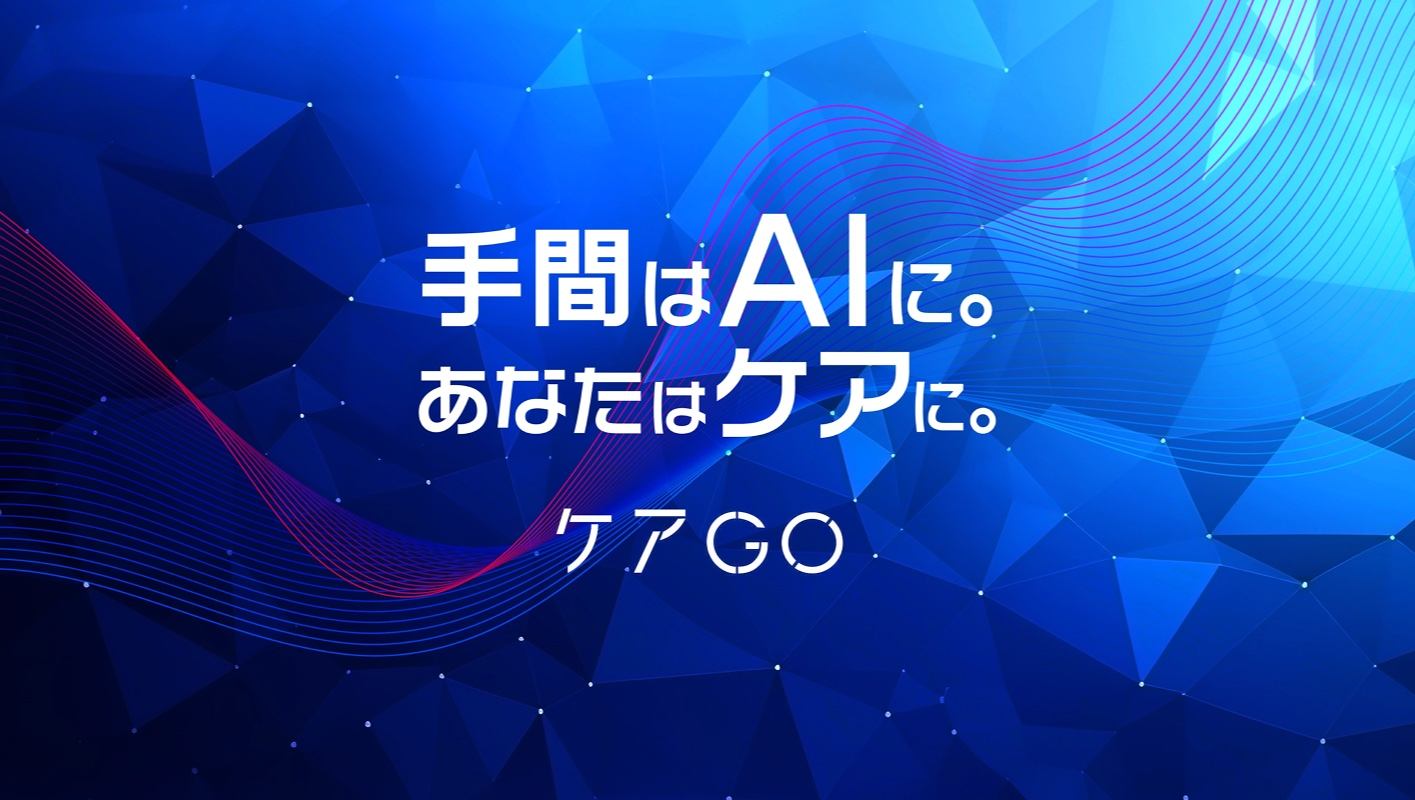
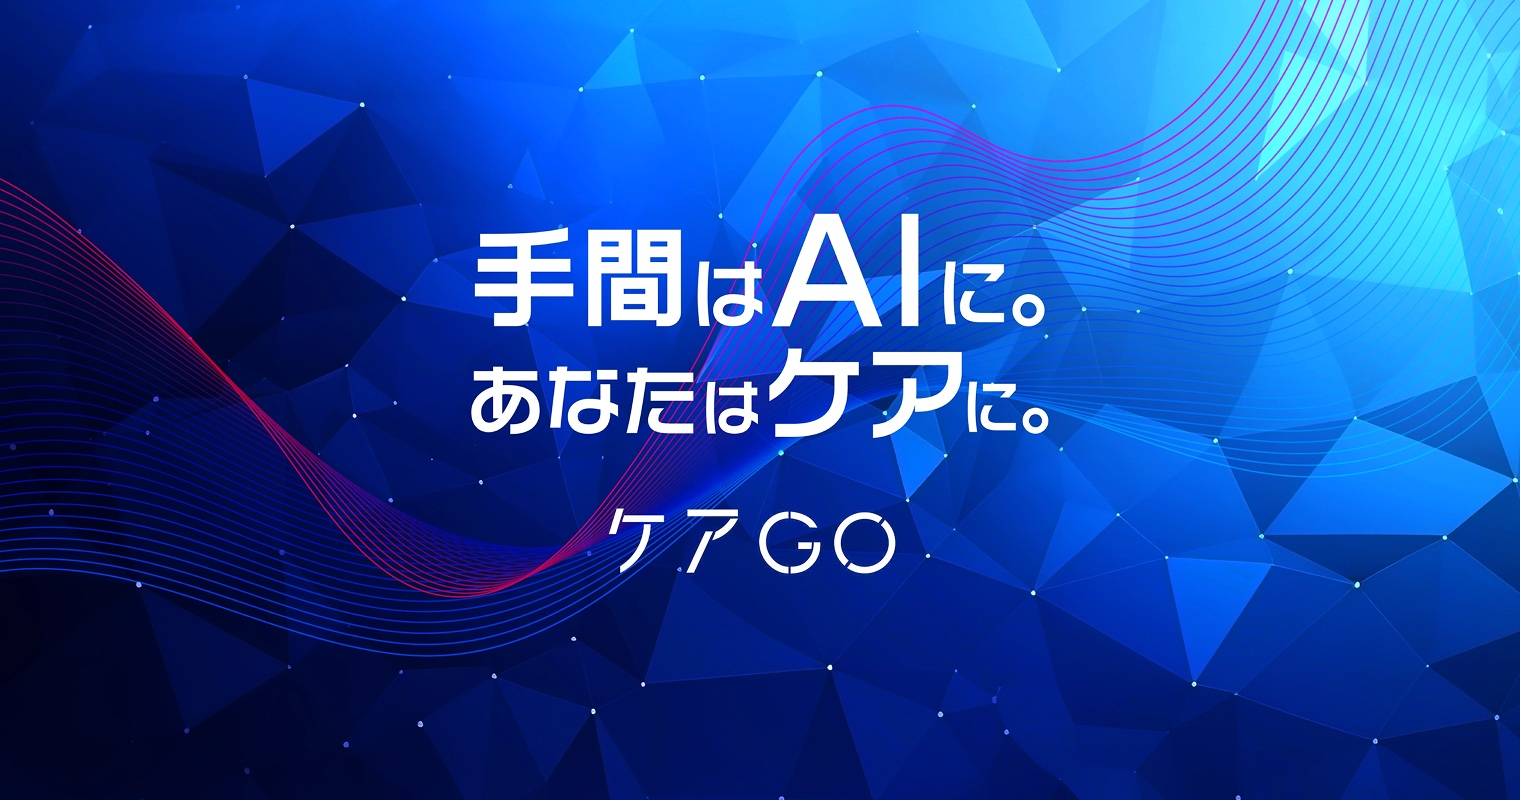
works(care-go): TOPサムネをフルバナー（クロップなし）に変更
- card.jpg をクロップ版→フルバナー(1520×800)に差し替え（image #35 全体表示・端の波線も欠けない）
- imageWidth/imageHeight を 1520×800 に（比率1.9・object-fit:fill でも歪みなし）

diff --git a/src/data/works.ts b/src/data/works.ts
@@ -16,8 +16,8 @@ const WORKS_DATA: readonly WorkItem[] = [
     ],
     term: '2025.11 ~ 2026.3',
     image: '/images/works/care-go/card.jpg',
-    imageWidth: 920,
-    imageHeight: 520,
+    imageWidth: 1520,
+    imageHeight: 800,
   },
   {
     id: 'mente',
